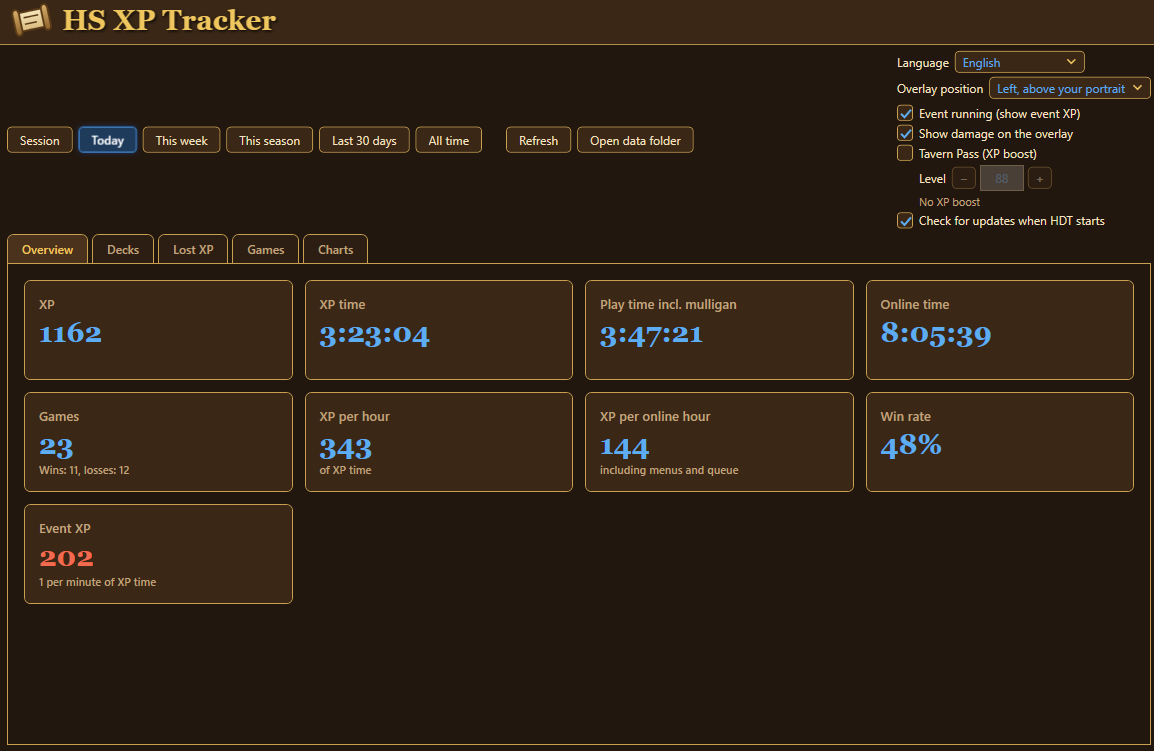
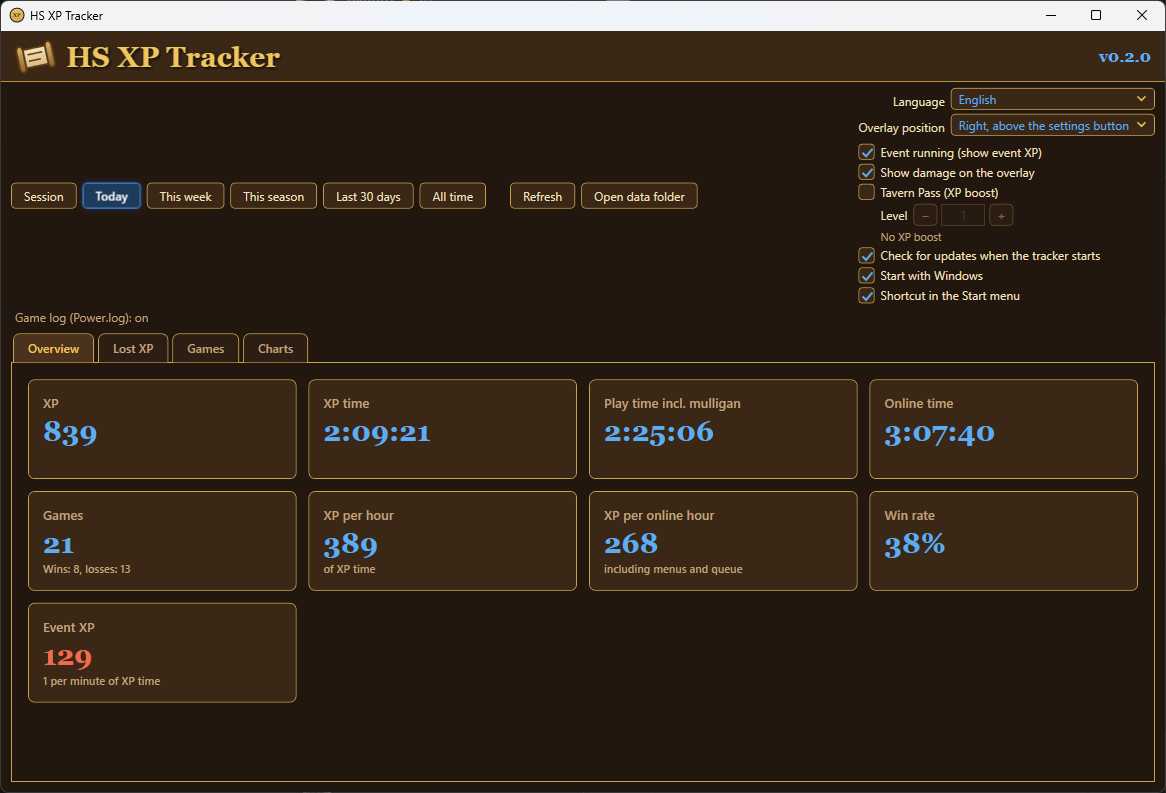
chore: prepare release 0.2.0 (#23)
Set the version to 0.2.0, move the Unreleased changelog entries under 0.2.0 with the date 21 November 2026, and replace the dashboard screenshot with one of version 0.2.0.

diff --git a/CHANGELOG.md b/CHANGELOG.md
@@ -7,6 +7,8 @@ and this project adheres to [Semantic Versioning](https://semver.org/spec/v2.0.0
 
 ## [Unreleased]
 
+## [0.2.0] - 2026-11-21
+
 The tracker becomes a stand-alone Windows program. Hearthstone Deck Tracker (HDT) stops supporting plugins on 30 November 2026; the tracker keeps the same overlay, dashboard and formula and no longer needs HDT.
 
 ### Added
@@ -124,7 +126,8 @@ First public beta: XP for Ranked, Casual, Tavern Brawl and Arena, measured game 
 - A Rewind card (game reset) no longer restarts the XP time on the overlay.
 - Starting HDT during a game no longer loses the time before the start.
 
-[Unreleased]: https://github.com/critterbyte/hearthstone_xp_tracker/compare/v0.1.2...HEAD
+[Unreleased]: https://github.com/critterbyte/hearthstone_xp_tracker/compare/v0.2.0...HEAD
+[0.2.0]: https://github.com/critterbyte/hearthstone_xp_tracker/releases/tag/v0.2.0
 [0.1.2]: https://github.com/critterbyte/hearthstone_xp_tracker/releases/tag/v0.1.2
 [0.1.1]: https://github.com/critterbyte/hearthstone_xp_tracker/releases/tag/v0.1.1
 [0.1.0]: https://github.com/critterbyte/hearthstone_xp_tracker/releases/tag/v0.1.0
